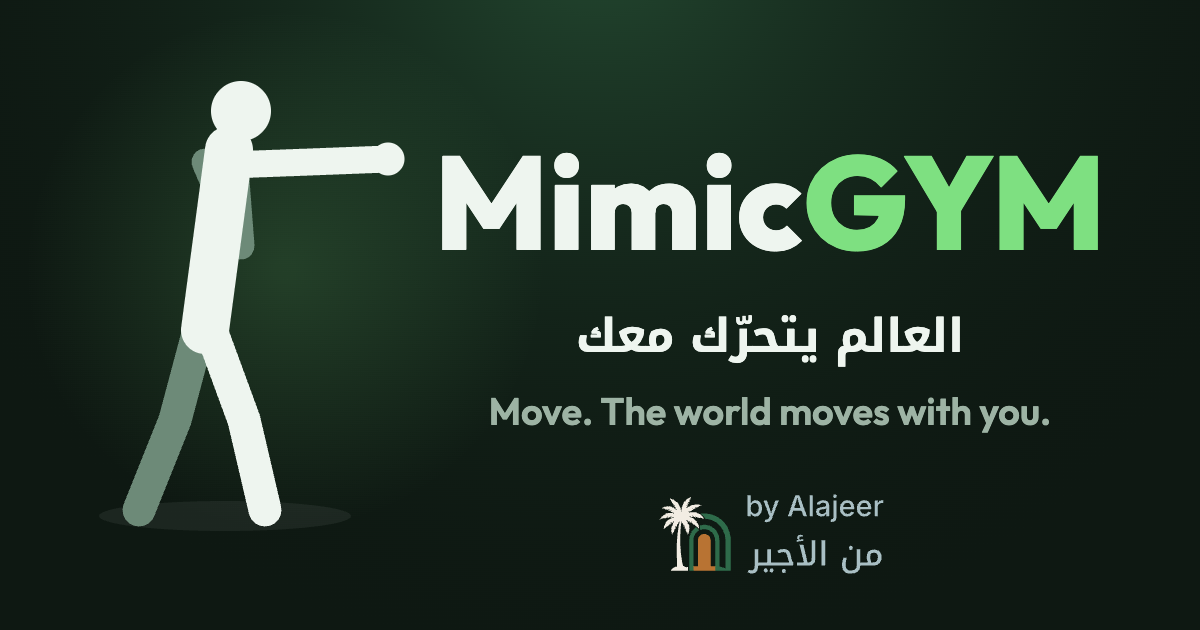
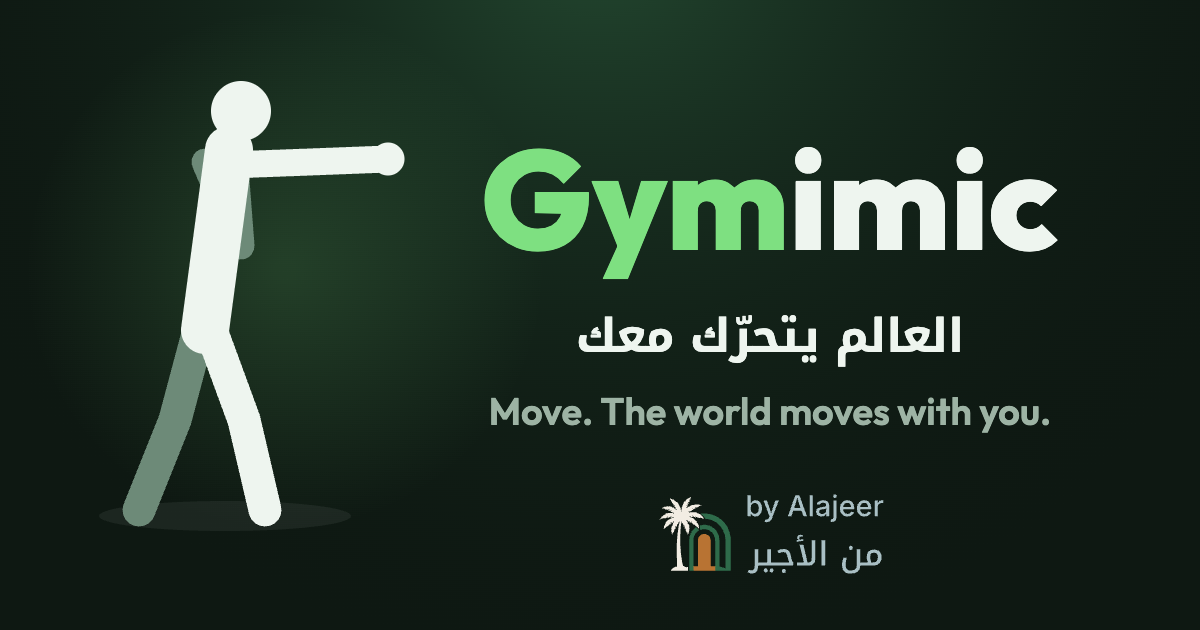
Rename the app to Gymimic
Title, setup-screen wordmark ("Gym" in mint + "imic"), web app manifest,
share tags and the share card now say Gymimic.

Changed region(s): [[0.37, 0.2111, 0.925, 0.4524]]

diff --git a/index.html b/index.html
@@ -3,7 +3,7 @@
 <head>
   <meta charset="utf-8">
   <meta name="viewport" content="width=device-width, initial-scale=1">
-  <title>MimicGYM</title>
+  <title>Gymimic</title>
   <meta name="description" content="Home workouts where the world moves with you. Follow the coach and every rep makes something happen: a 7-day programme with dumbbell days, with a camera or on your TV.">
   <meta name="theme-color" content="#0E1812">
 
@@ -12,31 +12,31 @@
   <link rel="icon" href="icons/favicon.svg" type="image/svg+xml">
   <link rel="apple-touch-icon" href="icons/apple-touch-icon.png">
   <link rel="manifest" href="manifest.json">
-  <meta name="apple-mobile-web-app-title" content="MimicGYM">
+  <meta name="apple-mobile-web-app-title" content="Gymimic">
 
   <!-- Share preview (WhatsApp, iMessage, Slack, X…). The card is rendered by tools/render-icons.html. -->
   <meta property="og:type" content="website">
-  <meta property="og:site_name" content="MimicGYM">
-  <meta property="og:title" content="MimicGYM">
+  <meta property="og:site_name" content="Gymimic">
+  <meta property="og:title" content="Gymimic">
   <meta property="og:description" content="Home workouts where the world moves with you. Follow the coach and every rep makes something happen.">
   <meta property="og:url" content="https://gym.ajeer.bh/">
   <meta property="og:image" content="https://gym.ajeer.bh/icons/og-image.png">
   <meta property="og:image:width" content="1200">
   <meta property="og:image:height" content="630">
-  <meta property="og:image:alt" content="MimicGYM: Move. The world moves with you. By Alajeer.">
+  <meta property="og:image:alt" content="Gymimic: Move. The world moves with you. By Alajeer.">
   <meta name="twitter:card" content="summary_large_image">
 
   <link rel="preconnect" href="https://fonts.googleapis.com">
   <link rel="preconnect" href="https://fonts.gstatic.com" crossorigin>
   <link href="https://fonts.googleapis.com/css2?family=Anton&family=Outfit:wght@400;600;800&display=swap" rel="stylesheet">
-  <link rel="stylesheet" href="style.css?v=20261023115931">
+  <link rel="stylesheet" href="style.css?v=20261023124916">
 </head>
 <body>
 
   <!-- 1. Set up the workout -->
   <section id="setup" class="screen active">
     <header class="brand">
-      <h1>Mimic<span>GYM</span></h1>
+      <h1><span>Gym</span>imic</h1>
       <p>Move. The world moves with you.</p>
     </header>
 
@@ -172,40 +172,40 @@
   <script type="importmap">
   {
     "imports": {
-      "./js/app.js": "./js/app.js?v=20261023115931",
-      "./js/audio.js": "./js/audio.js?v=20261023115931",
-      "./js/figure.js": "./js/figure.js?v=20261023115931",
-      "./js/fx.js": "./js/fx.js?v=20261023115931",
-      "./js/moves/bamboo.js": "./js/moves/bamboo.js?v=20261023115931",
-      "./js/moves/body.js": "./js/moves/body.js?v=20261023115931",
-      "./js/moves/breathe.js": "./js/moves/breathe.js?v=20261023115931",
-      "./js/moves/bridge.js": "./js/moves/bridge.js?v=20261023115931",
-      "./js/moves/burpee.js": "./js/moves/burpee.js?v=20261023115931",
-      "./js/moves/circles.js": "./js/moves/circles.js?v=20261023115931",
-      "./js/moves/climber.js": "./js/moves/climber.js?v=20261023115931",
-      "./js/moves/core.js": "./js/moves/core.js?v=20261023115931",
-      "./js/moves/curl.js": "./js/moves/curl.js?v=20261023115931",
-      "./js/moves/curtsy.js": "./js/moves/curtsy.js?v=20261023115931",
-      "./js/moves/jacks.js": "./js/moves/jacks.js?v=20261023115931",
-      "./js/moves/jog.js": "./js/moves/jog.js?v=20261023115931",
-      "./js/moves/lateral.js": "./js/moves/lateral.js?v=20261023115931",
-      "./js/moves/plank.js": "./js/moves/plank.js?v=20261023115931",
-      "./js/moves/press.js": "./js/moves/press.js?v=20261023115931",
-      "./js/moves/punch.js": "./js/moves/punch.js?v=20261023115931",
-      "./js/moves/pushup.js": "./js/moves/pushup.js?v=20261023115931",
-      "./js/moves/rdl.js": "./js/moves/rdl.js?v=20261023115931",
-      "./js/moves/row.js": "./js/moves/row.js?v=20261023115931",
-      "./js/moves/runner.js": "./js/moves/runner.js?v=20261023115931",
-      "./js/moves/slap.js": "./js/moves/slap.js?v=20261023115931",
-      "./js/moves/squat.js": "./js/moves/squat.js?v=20261023115931",
-      "./js/moves/stretch.js": "./js/moves/stretch.js?v=20261023115931",
-      "./js/moves/tricep.js": "./js/moves/tricep.js?v=20261023115931",
-      "./js/moves/twist.js": "./js/moves/twist.js?v=20261023115931",
-      "./js/music.js": "./js/music.js?v=20261023115931",
-      "./js/plan.js": "./js/plan.js?v=20261023115931",
-      "./js/scene.js": "./js/scene.js?v=20261023115931",
-      "./js/tracker.js": "./js/tracker.js?v=20261023115931",
-      "./js/util.js": "./js/util.js?v=20261023115931"
+      "./js/app.js": "./js/app.js?v=20261023124916",
+      "./js/audio.js": "./js/audio.js?v=20261023124916",
+      "./js/figure.js": "./js/figure.js?v=20261023124916",
+      "./js/fx.js": "./js/fx.js?v=20261023124916",
+      "./js/moves/bamboo.js": "./js/moves/bamboo.js?v=20261023124916",
+      "./js/moves/body.js": "./js/moves/body.js?v=20261023124916",
+      "./js/moves/breathe.js": "./js/moves/breathe.js?v=20261023124916",
+      "./js/moves/bridge.js": "./js/moves/bridge.js?v=20261023124916",
+      "./js/moves/burpee.js": "./js/moves/burpee.js?v=20261023124916",
+      "./js/moves/circles.js": "./js/moves/circles.js?v=20261023124916",
+      "./js/moves/climber.js": "./js/moves/climber.js?v=20261023124916",
+      "./js/moves/core.js": "./js/moves/core.js?v=20261023124916",
+      "./js/moves/curl.js": "./js/moves/curl.js?v=20261023124916",
+      "./js/moves/curtsy.js": "./js/moves/curtsy.js?v=20261023124916",
+      "./js/moves/jacks.js": "./js/moves/jacks.js?v=20261023124916",
+      "./js/moves/jog.js": "./js/moves/jog.js?v=20261023124916",
+      "./js/moves/lateral.js": "./js/moves/lateral.js?v=20261023124916",
+      "./js/moves/plank.js": "./js/moves/plank.js?v=20261023124916",
+      "./js/moves/press.js": "./js/moves/press.js?v=20261023124916",
+      "./js/moves/punch.js": "./js/moves/punch.js?v=20261023124916",
+      "./js/moves/pushup.js": "./js/moves/pushup.js?v=20261023124916",
+      "./js/moves/rdl.js": "./js/moves/rdl.js?v=20261023124916",
+      "./js/moves/row.js": "./js/moves/row.js?v=20261023124916",
+      "./js/moves/runner.js": "./js/moves/runner.js?v=20261023124916",
+      "./js/moves/slap.js": "./js/moves/slap.js?v=20261023124916",
+      "./js/moves/squat.js": "./js/moves/squat.js?v=20261023124916",
+      "./js/moves/stretch.js": "./js/moves/stretch.js?v=20261023124916",
+      "./js/moves/tricep.js": "./js/moves/tricep.js?v=20261023124916",
+      "./js/moves/twist.js": "./js/moves/twist.js?v=20261023124916",
+      "./js/music.js": "./js/music.js?v=20261023124916",
+      "./js/plan.js": "./js/plan.js?v=20261023124916",
+      "./js/scene.js": "./js/scene.js?v=20261023124916",
+      "./js/tracker.js": "./js/tracker.js?v=20261023124916",
+      "./js/util.js": "./js/util.js?v=20261023124916"
     }
   }
   </script>

diff --git a/tools/render-icons.html b/tools/render-icons.html
@@ -2,7 +2,7 @@
 <html lang="en">
 <head>
   <meta charset="utf-8">
-  <title>MimicGYM icon renderer</title>
+  <title>Gymimic icon renderer</title>
   <!-- Renders the app icons and the 1200×630 share card from their sources:
        icons/favicon.svg (product symbol) and icons/by-alajeer-dark.svg (official sign-off).
        Open via the local server (python3 serve.py → http://localhost:5173/tools/render-icons.html),
@@ -62,7 +62,7 @@
       results["icon-maskable-512.png"] = c.toDataURL("image/png");
     }
 
-    // Share card (Open Graph), 1200×630: same family layout as AraBiC, in MimicGYM's own colours.
+    // Share card (Open Graph), 1200×630: same family layout as AraBiC, in Gymimic's own colours.
     {
       const W = 1200, H = 630, c = canvas("og-image.png", W, H), ctx = c.getContext("2d");
       ctx.fillStyle = "#0E1812";
@@ -89,13 +89,13 @@
       // Wordmark, then each language on its own line.
       const cx = 770;
       ctx.textBaseline = "alphabetic";
-      ctx.font = "800 132px Outfit";
-      const a = ctx.measureText("Mimic").width, b = ctx.measureText("GYM").width;
+      ctx.font = "800 140px Outfit";
+      const a = ctx.measureText("Gym").width, b = ctx.measureText("imic").width;
       ctx.textAlign = "left";
-      ctx.fillStyle = "#EEF5EF";
-      ctx.fillText("Mimic", cx - (a + b) / 2, 250);
       ctx.fillStyle = "#7EE081";
-      ctx.fillText("GYM", cx - (a + b) / 2 + a, 250);
+      ctx.fillText("Gym", cx - (a + b) / 2, 250);
+      ctx.fillStyle = "#EEF5EF";
+      ctx.fillText("imic", cx - (a + b) / 2 + a, 250);
       ctx.textAlign = "center";
       ctx.fillStyle = "#EEF5EF";
       ctx.font = "700 46px 'Noto Kufi Arabic'";

diff --git a/serve.py b/serve.py
@@ -1,4 +1,4 @@
-"""Local dev server for MimicGYM: http://localhost:5173
+"""Local dev server for Gymimic: http://localhost:5173
 
 Same as `python3 -m http.server`, but tells the browser not to cache, so
 edits show up on a normal reload.
@@ -18,5 +18,5 @@ class NoCacheHandler(http.server.SimpleHTTPRequestHandler):
 if __name__ == "__main__":
     os.chdir(os.path.dirname(os.path.abspath(__file__)))
     with http.server.ThreadingHTTPServer(("", PORT), NoCacheHandler) as httpd:
-        print(f"MimicGYM running at http://localhost:{PORT}")
+        print(f"Gymimic running at http://localhost:{PORT}")
         httpd.serve_forever()
